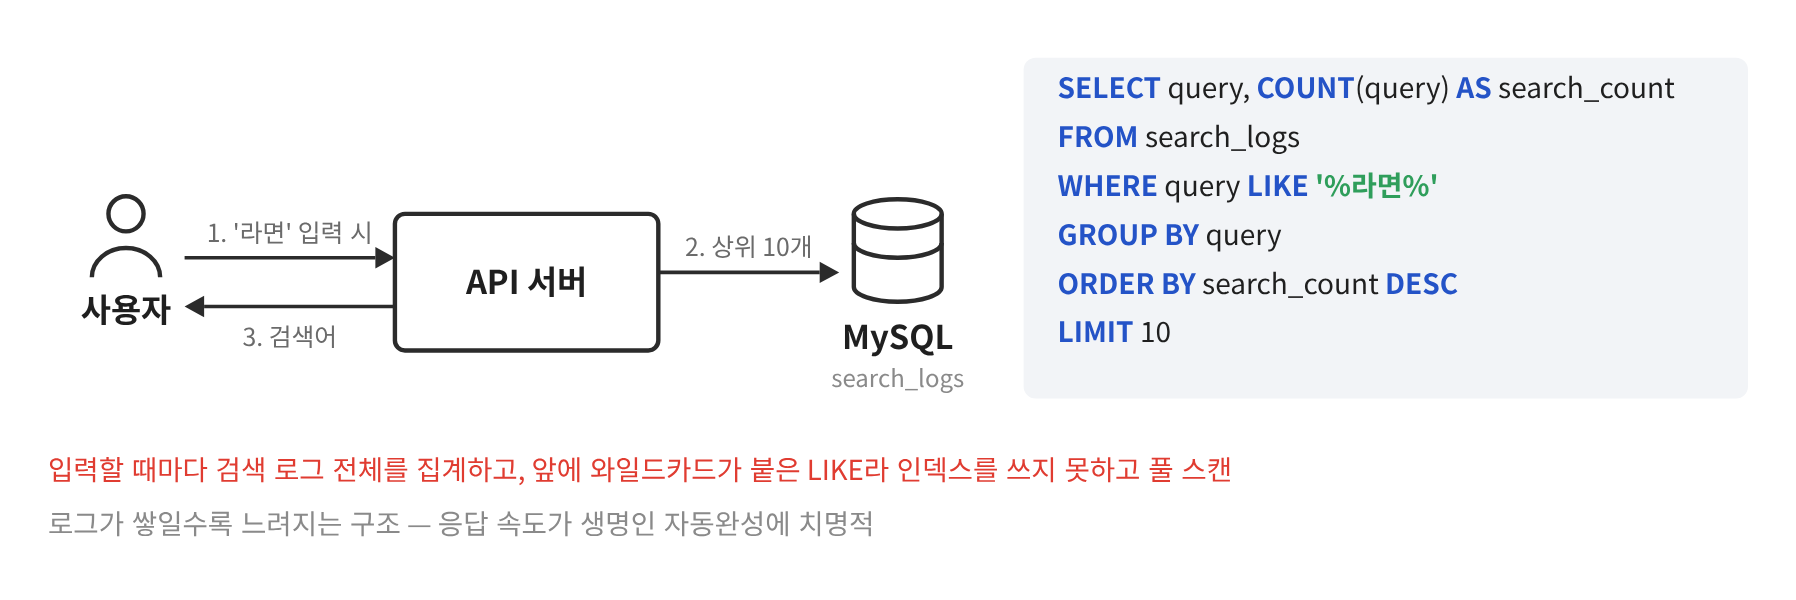
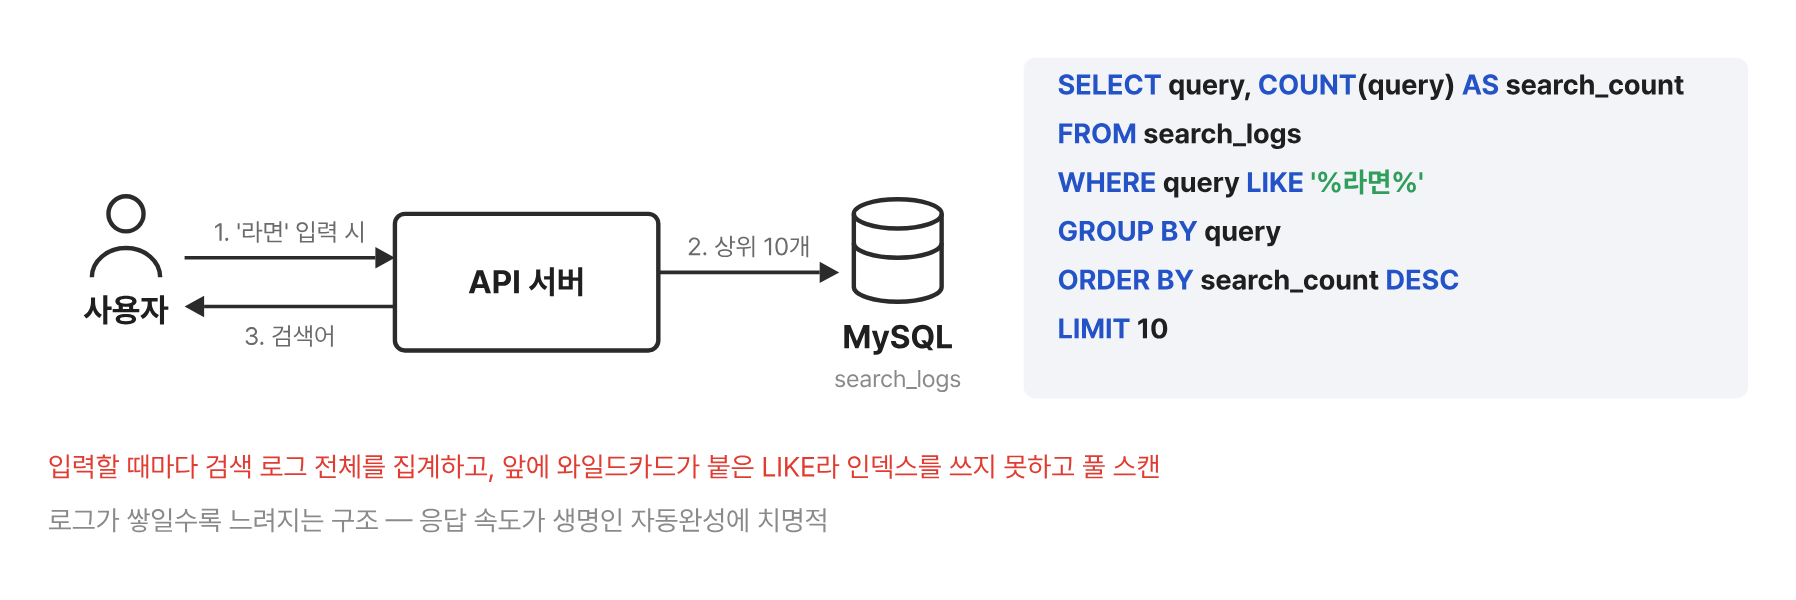
docs: README 아키텍처 이미지를 Figma '다담다 아키텍처' 파일에서 내보낸 이미지로 교체
- 초기 구조 2장(검색, 자동완성)과 아키텍처 섹션 2장(상품 등록·판매량순 검색, 검색 로그)

Claude-Session: https://claude.ai/code/session_01JqXrVS6iDAFPjaSji7Ww2Z

diff --git a/README.md b/README.md
@@ -32,7 +32,7 @@
 
 ## 아키텍처
 ### 검색 (판매량 순)
-![검색 아키텍처](https://github.com/user-attachments/assets/23e15077-bb56-4132-a622-a209c6e20429)
+![검색 아키텍처](docs/images/product-search-architecture.png)
 ### 상품 등록 아키텍처
 1. 판매자가 상품 서버에 상품 등록을 요청한다.
 2. 상품 서버는 사용자의 요청을 받아 MYSQL에 상품 데이터를 저장한다.
@@ -44,7 +44,7 @@
 3. 엘라스틱서치에 검색한 상품 목록을 사용자에게 응답한다.
 --- 
 ### 검색어 자동완성
-![검색 시 로그데이터 저장 아키텍처](https://github.com/user-attachments/assets/87ba48e5-da84-4c41-9c0e-e2634b760981)
+![검색 시 로그데이터 저장 아키텍처](docs/images/search-log-architecture.png)
 1. 사용자가 검색 서버에'신라면'을 검색한다.
 2. 검색 서버는 사용자에게 상품 데이터를 반환하고, 검색어 로그 메시지를 발행한다.
 3. 컨슈머 서버는 발행된 검색어 로그를 배치 단위로 가져온다.
